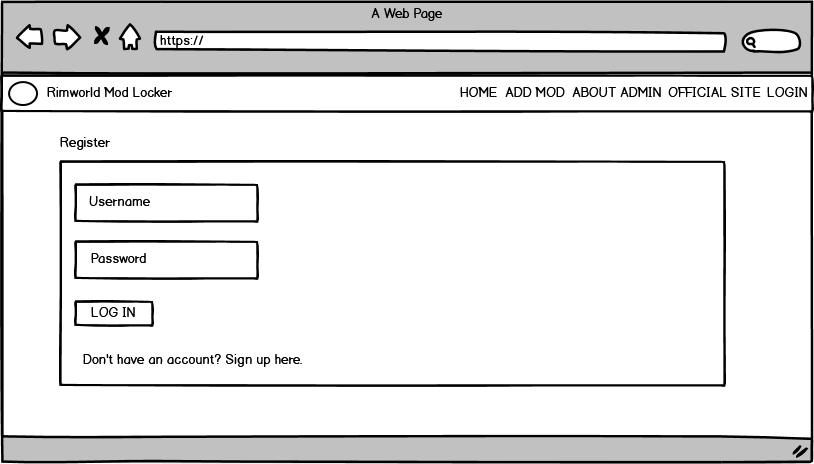
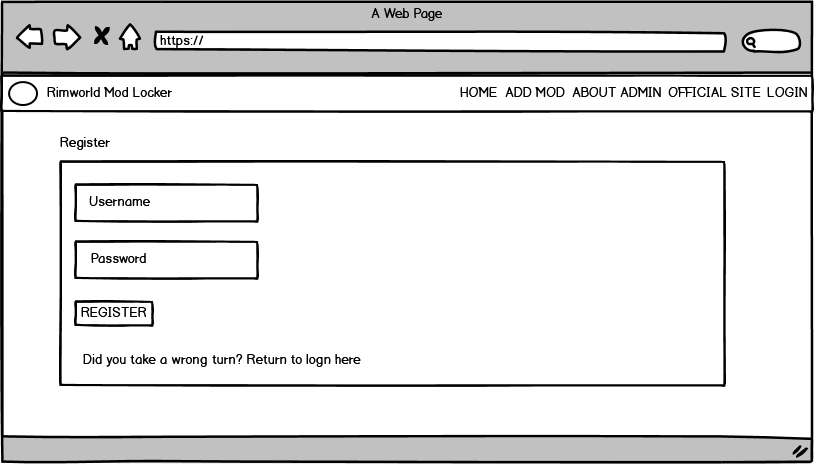
Fixed Typo

Changed region(s): [[0.0921, 0.7543, 0.4607, 0.7845], [0.0921, 0.6638, 0.1843, 0.694]]

diff --git a/templates/register.html b/templates/register.html
@@ -19,7 +19,7 @@
             </form>
             <br>
             <div>
-                Did you take a wrong turn? <a href="{{ url_for('index') }}">Retun to login here</a>
+                Did you take a wrong turn? <a href="{{ url_for('index') }}">Return to login here</a>
             </div>
         </div>
     </div>

diff --git a/README.md b/README.md
@@ -108,10 +108,6 @@ The user's goal is to have a quick and convenient way of finding new mods for Ri
  
 ![Edit Mod Page](static/wireframes/editMod.png)
 
-###### Add Mod
- 
-![Add Mod Page](static/wireframes/addMod.png)
-
 ###### About Page
  
 ![About Page](static/wireframes/about.png)
